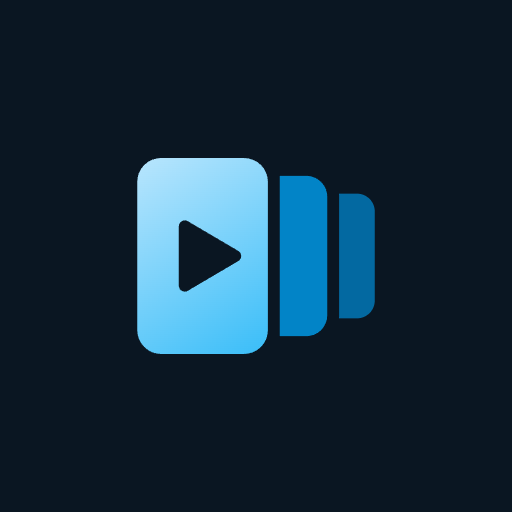
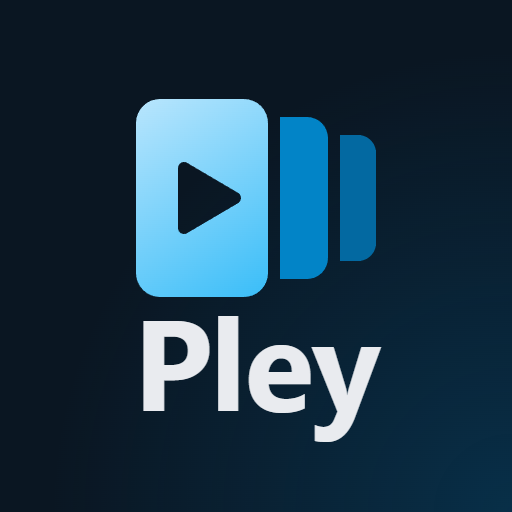
android, samsung: large TV tiles show Pley's name under the mark
Fire TV's tile and Samsung's apps bar are large tiles, and the other apps
there show their names; small icons (Android TV, Google TV, phones) keep
the mark alone.

Fire TV draws a sideloaded app's tile from its application icon, squeezed
into a fixed square on its own grey; an Appstore app's tile is the 16:9
icon in its listing instead. Resources can't tell Fire TV from Google TV
by type, but Fire OS runs out of night mode and Android TV and Google TV
in it, so the named icon is mipmap-television-notnight: Fire TV gets the
navy square with the mark and name, the others keep the adaptive icon.
This replaces the clear-background icon in the direct build.

render-icons.mjs draws it, the native Samsung app's icon (and its DEBUG
build's) with the name, and the Appstore's 1280x720 Fire TV icon, the
lockup centred and larger than the banner's. The Samsung web app keeps its
WEB icon.

Changed region(s): [[0.25, 0.1875, 1.0, 1.0]]

diff --git a/docs/ANDROID.md b/docs/ANDROID.md
@@ -153,10 +153,13 @@ heard it for that profile, the start asks "Who's watching?".
   `amazon.hardware.fire_tv` feature and follows Amazon's player guidelines
   (asynchronous decoder queueing, surround from Fire OS's audio setting,
   Alexa's play and pause). Fire OS 16 asks for the nearby-devices
-  permission before the app searches the network. Fire TV draws a
-  sideloaded app's tile from its icon, in a square between grey bars, so
-  the sideloaded APK's icon on TVs is the mark alone on a clear
-  background: the tile is one grey piece with the mark in it.
+  permission before the app searches the network. An Appstore app's
+  tile is the 16:9 icon in its listing (`deploy/stores`); a sideloaded
+  app's is drawn from the app's icon, squeezed into a square in the middle
+  of a grey tile. The icon there is the mark above the name, as the other
+  apps' tiles show theirs: a resource for TVs out of night mode
+  (`mipmap-television-notnight`), as Fire OS runs. Android TV and Google
+  TV run in night mode, and keep the adaptive icon, the mark alone.
 - **Watch Next** (Android TV and Google TV): the home screen's row shows
   the profile's Continue Watching, ten at most.
 - **Dolby Vision and HDR** go by the display mode each video plays in: the

diff --git a/docs/TV_PLATFORMS.md b/docs/TV_PLATFORMS.md
@@ -255,10 +255,12 @@ bun run --cwd apps/tizen build       # only the app's dist/; --dev keeps it read
   the PATH, and a security profile named by `PLEY_TIZEN_PROFILE` (default
   `pley-dev`).
 - **Icons:** `bun scripts/render-icons.mjs` draws Samsung's icons, square
-  as the TV's menu draws its other apps. One TV may have more than one of
-  Pley's Samsung apps, so the native app's icon is plain, the web app's says
-  WEB on blue, and a profiling build of the native app (an app of its own,
-  `app.pley.tizen.debug`, "Pley (debug)") says DEBUG on yellow.
+  as the TV's menu draws its other apps. The native app's has the mark
+  above the name, as the other apps' tiles there show theirs. One TV may
+  have more than one of Pley's Samsung apps, so the web app's says WEB on
+  blue under the mark, and a profiling build of the native app (an app of
+  its own, `app.pley.tizen.debug`, "Pley (debug)") says DEBUG on yellow
+  under the mark and name.
 
 ### Testing without a TV
 

diff --git a/deploy/stores/README.md b/deploy/stores/README.md
@@ -13,7 +13,8 @@ itself: pictures, screenshots and the listing's text.
 | `icon-512.png` | 512 × 512 | Google Play's app icon (Play rounds its corners), the Amazon Appstore's large icon |
 | `icon-114.png` | 114 × 114 | The Amazon Appstore's small icon |
 | `feature-graphic-1024x500.png` | 1024 × 500 | Google Play's feature graphic |
-| `tv-banner-1280x720.png` | 1280 × 720 | Google Play's Android TV banner, the Amazon Appstore's Fire TV icon |
+| `tv-banner-1280x720.png` | 1280 × 720 | Google Play's Android TV banner |
+| `fire-tv-icon-1280x720.png` | 1280 × 720 | The Amazon Appstore's Fire TV icon, the app's tile on Fire TV: the mark and name centred, larger than the banner's |
 | `fire-tv-background-1920x1080.jpg` | 1920 × 1080 | The Amazon Appstore's Fire TV background (the mark top right, clear of the store's text) |
 
 ## Screenshots

diff --git a/apps/android/CHANGELOG.md b/apps/android/CHANGELOG.md
@@ -10,8 +10,9 @@ describes how they are made.
 
 ### Fixed
 
-- On Fire TV, the sideloaded app's tile is one piece: Pley's mark, larger,
-  on the tile's grey, not a dark square between grey bars.
+- On Fire TV, the app's tile shows Pley's name under the mark, as the
+  other apps' tiles show theirs. Android TV and Google TV keep the mark
+  alone.
 
 ## [0.1.5] - 2026-11-03
 

diff --git a/apps/tizen-native/CHANGELOG.md b/apps/tizen-native/CHANGELOG.md
@@ -8,6 +8,11 @@ It has no releases yet: it is built and installed by hand
 
 ## [Unreleased]
 
+### Changed
+
+- The icon shows Pley's name under the mark, as the other apps in the
+  TV's apps bar show theirs.
+
 ### Added
 
 - A profiling build of the native app is an app of its own, "Pley (debug)",
